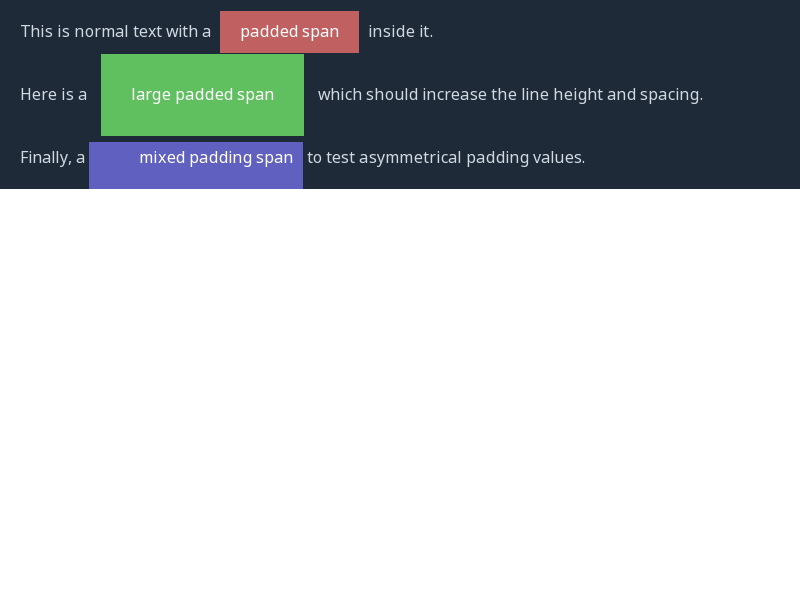
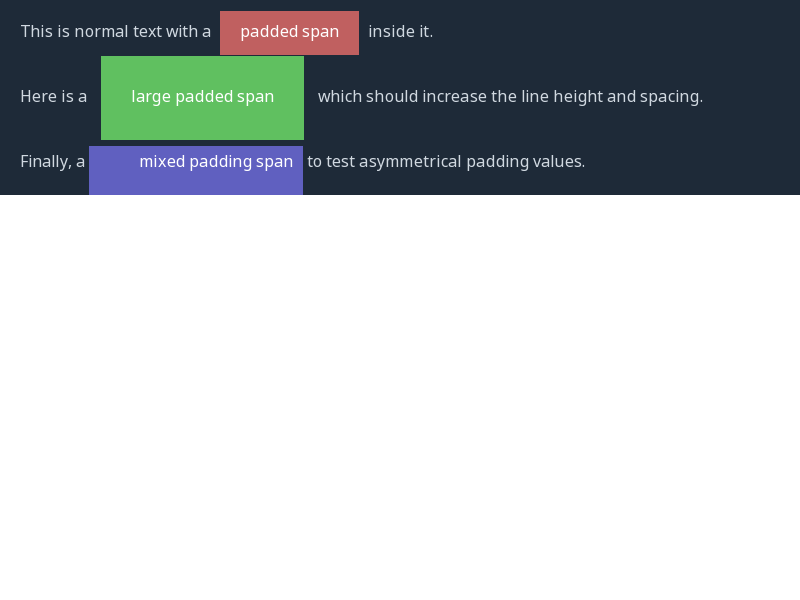
Add `line-height` and `text-indent` support.

diff --git a/src/eepp/ui/uirichtext.cpp b/src/eepp/ui/uirichtext.cpp
@@ -316,6 +316,33 @@ bool UIRichText::applyProperty( const StyleSheetProperty& attribute ) {
 				mDataProperties["data-language"] = attribute;
 			break;
 		}
+		case PropertyId::LineHeight: {
+			std::string val = attribute.value();
+			if ( val == "normal" || val.empty() ) {
+				setLineHeightPx( 0 );
+			} else {
+				// Unitless number: multiplier of font size
+				bool isUnitless = !val.empty();
+				for ( char c : val ) {
+					if ( c != '-' && c != '+' && c != '.' && !String::isNumber( c, false ) ) {
+						isUnitless = false;
+						break;
+					}
+				}
+
+				if ( isUnitless ) {
+					Float multiplier = StyleSheetLength::fromString( val, 0 ).getValue();
+					setLineHeightPx( multiplier * getFontSize() );
+				} else {
+					setLineHeightPx( lengthFromValue( attribute ) );
+				}
+			}
+			break;
+		}
+		case PropertyId::TextIndent: {
+			setTextIndentPx( lengthFromValue( attribute ) );
+			break;
+		}
 		default:
 			return UIHTMLWidget::applyProperty( attribute );
 	}
@@ -360,6 +387,10 @@ std::string UIRichText::getPropertyString( const PropertyDefinition* propertyDef
 			return getTextAlign() == TEXT_ALIGN_CENTER
 					   ? "center"
 					   : ( getTextAlign() == TEXT_ALIGN_RIGHT ? "right" : "left" );
+		case PropertyId::LineHeight:
+			return mLineHeightPx > 0 ? String::fromFloat( mLineHeightPx, "px" ) : "normal";
+		case PropertyId::TextIndent:
+			return mTextIndentPx > 0 ? String::fromFloat( mTextIndentPx, "px" ) : "0";
 		default:
 			return UIHTMLWidget::getPropertyString( propertyDef, propertyIndex );
 	}
@@ -372,7 +403,7 @@ std::vector<PropertyId> UIRichText::getPropertiesImplemented() const {
 		PropertyId::Color,			 PropertyId::TextShadowColor,	 PropertyId::TextShadowOffset,
 		PropertyId::TextStrokeWidth, PropertyId::TextStrokeColor,	 PropertyId::TextAlign,
 		PropertyId::SelectionColor,	 PropertyId::SelectionBackColor, PropertyId::TextSelection,
-		PropertyId::TextDecoration };
+		PropertyId::TextDecoration,	 PropertyId::LineHeight,		 PropertyId::TextIndent };
 	props.insert( props.end(), local.begin(), local.end() );
 	return props;
 }
@@ -542,6 +573,24 @@ UIRichText* UIRichText::setTextAlign( const Uint32& align ) {
 	return this;
 }
 
+UIRichText* UIRichText::setLineHeightPx( Float height ) {
+	if ( mLineHeightPx != height ) {
+		mLineHeightPx = height;
+		notifyLayoutAttrChange();
+		notifyLayoutAttrChangeParent();
+	}
+	return this;
+}
+
+UIRichText* UIRichText::setTextIndentPx( Float indent ) {
+	if ( mTextIndentPx != indent ) {
+		mTextIndentPx = indent;
+		notifyLayoutAttrChange();
+		notifyLayoutAttrChangeParent();
+	}
+	return this;
+}
+
 void UIRichText::loadFromXmlNode( const pugi::xml_node& node ) {
 	beginAttributesTransaction();
 
@@ -657,6 +706,11 @@ String UIRichText::UIRichText::collapseInternalWhitespace( const String& s ) {
 
 void UIRichText::rebuildRichText( UILayout* container, RichText& richText, IntrinsicMode mode ) {
 	richText.clear();
+	if ( container->isType( UI_TYPE_RICHTEXT ) ) {
+		auto* uiRt = static_cast<UIRichText*>( container );
+		richText.setLineHeight( uiRt->getLineHeightPx() );
+		richText.setTextIndent( uiRt->getTextIndentPx() );
+	}
 	Float maxWidth = 0;
 	if ( container->getLayoutWidthPolicy() == SizePolicy::WrapContent ) {
 		maxWidth = container->getMatchParentWidth() - container->getPixelsContentOffset().Left -

diff --git a/src/eepp/graphics/richtext.cpp b/src/eepp/graphics/richtext.cpp
@@ -130,6 +130,20 @@ void RichText::setSelection( TextSelectionRange range ) {
 	}
 }
 
+void RichText::setLineHeight( Float height ) {
+	if ( mLineHeight != height ) {
+		mLineHeight = height;
+		invalidate();
+	}
+}
+
+void RichText::setTextIndent( Float indent ) {
+	if ( mTextIndent != indent ) {
+		mTextIndent = indent;
+		invalidate();
+	}
+}
+
 void RichText::setSelectionColor( const Color& color ) {
 	mSelectionColor = color;
 }
@@ -466,7 +480,7 @@ void RichText::updateLayout() {
 		mLines.clear();
 		mLines.push_back( RenderParagraph() );
 
-		Float curX = 0;
+		Float curX = mTextIndent;
 		Float maxWidth = 0;
 		Int64 curCharIdx = 0;
 
@@ -524,7 +538,9 @@ void RichText::updateLayout() {
 						renderSpanText->setStyleConfig( fontStyle );
 
 						Float ascent = fontStyle.Font->getAscent( fontStyle.CharacterSize );
-						Float height = fontStyle.Font->getLineSpacing( fontStyle.CharacterSize );
+						Float height = mLineHeight > 0
+										   ? mLineHeight
+										   : fontStyle.Font->getLineSpacing( fontStyle.CharacterSize );
 						Float spanWidth = renderSpanText->getTextWidth();
 
 						RenderSpan renderSpan;
@@ -686,7 +702,7 @@ void RichText::updateLayout() {
 	mLines.clear();
 	mLines.push_back( RenderParagraph() );
 
-	Float curX = 0;
+	Float curX = mTextIndent;
 	Float maxWidth = 0;
 	Int64 curCharIdx = 0;
 
@@ -805,7 +821,9 @@ void RichText::updateLayout() {
 					renderSpanText->setStyleConfig( fontStyle );
 
 					Float ascent = fontStyle.Font->getAscent( fontStyle.CharacterSize );
-					Float height = fontStyle.Font->getLineSpacing( fontStyle.CharacterSize );
+					Float height = mLineHeight > 0
+									   ? mLineHeight
+									   : fontStyle.Font->getLineSpacing( fontStyle.CharacterSize );
 					Float spanWidth = renderSpanText->getTextWidth();
 
 					RenderSpan renderSpan;

diff --git a/include/eepp/graphics/richtext.hpp b/include/eepp/graphics/richtext.hpp
@@ -155,6 +155,19 @@ class EE_API RichText : public Drawable {
 	/** @return The list of rendered lines. */
 	const std::vector<RenderParagraph>& getLines() const { return mLines; }
 
+	/** Sets line-height as a multiplier of the font's default line spacing.
+	 *  Use 0 to reset to font default. */
+	void setLineHeight( Float height );
+
+	/** @return The line height multiplier. */
+	Float getLineHeight() const { return mLineHeight; }
+
+	/** Sets text-indent (pixels) for the first line. */
+	void setTextIndent( Float indent );
+
+	/** @return The text indent in pixels. */
+	Float getTextIndent() const { return mTextIndent; }
+
 	/** @brief Sets the text selection range. */
 	void setSelection( TextSelectionRange range );
 
@@ -207,6 +220,8 @@ class EE_API RichText : public Drawable {
 	Sizef mSize;
 	Int64 mTotalCharacterCount{ 0 };
 	bool mNeedsLayoutUpdate{ true };
+	Float mLineHeight{ 0 };
+	Float mTextIndent{ 0 };
 };
 
 }} // namespace EE::Graphics

diff --git a/include/eepp/ui/uirichtext.hpp b/include/eepp/ui/uirichtext.hpp
@@ -113,6 +113,14 @@ class EE_API UIRichText : public UIHTMLWidget {
 
 	UIRichText* setTextAlign( const Uint32& align );
 
+	Float getLineHeightPx() const { return mLineHeightPx; }
+
+	UIRichText* setLineHeightPx( Float height );
+
+	Float getTextIndentPx() const { return mTextIndentPx; }
+
+	UIRichText* setTextIndentPx( Float indent );
+
 	bool isTextSelectionEnabled() const;
 
 	void setTextSelectionEnabled( bool active );
@@ -138,6 +146,8 @@ class EE_API UIRichText : public UIHTMLWidget {
 	Int64 mSelCurInit{ 0 };
 	Int64 mSelCurEnd{ 0 };
 	bool mSelecting{ false };
+	Float mLineHeightPx{ 0 };
+	Float mTextIndentPx{ 0 };
 
 	explicit UIRichText( const std::string& tag = "richtext" );
 

diff --git a/include/eepp/ui/css/propertydefinition.hpp b/include/eepp/ui/css/propertydefinition.hpp
@@ -220,6 +220,8 @@ enum class PropertyId : Uint32 {
 	TextAsFallback = String::hash( "text-as-fallback" ),
 	SelectOnClick = String::hash( "select-on-click" ),
 	LineSpacing = String::hash( "line-spacing" ),
+	LineHeight = String::hash( "line-height" ),
+	TextIndent = String::hash( "text-indent" ),
 	GravityOwner = String::hash( "gravity-owner" ),
 	Href = String::hash( "href" ),
 	Focusable = String::hash( "focusable" ),

diff --git a/src/eepp/ui/css/stylesheetspecification.cpp b/src/eepp/ui/css/stylesheetspecification.cpp
@@ -229,6 +229,8 @@ void StyleSheetSpecification::registerDefaultProperties() {
 	registerProperty( "font-style", "", true ).addAlias( "font-weight" );
 	registerProperty( "text-decoration", "", true );
 	registerProperty( "line-spacing", "", true ).setType( PropertyType::NumberLength );
+	registerProperty( "line-height", "", true ).setType( PropertyType::NumberLength );
+	registerProperty( "text-indent", "", true ).setType( PropertyType::NumberLength );
 	registerProperty( "text-stroke-width", "", true )
 		.setType( PropertyType::NumberLength )
 		.addAlias( "fontoutlinethickness" );

diff --git a/src/examples/richtext/richtext.cpp b/src/examples/richtext/richtext.cpp
@@ -20,6 +20,8 @@ EE_MAIN_FUNC int main( int argc, char* argv[] ) {
 	richText.getFontStyleConfig().Font = font;
 	richText.getFontStyleConfig().CharacterSize = 24;
 	richText.setAlign( TEXT_ALIGN_LEFT );
+	richText.setLineHeight( 36 ); // Line height of 36px (1.5x 24px font)
+	richText.setTextIndent( 30 ); // Indent first line 30px
 
 	// Add spans using the helper method
 	richText.addSpan( "Hello " );